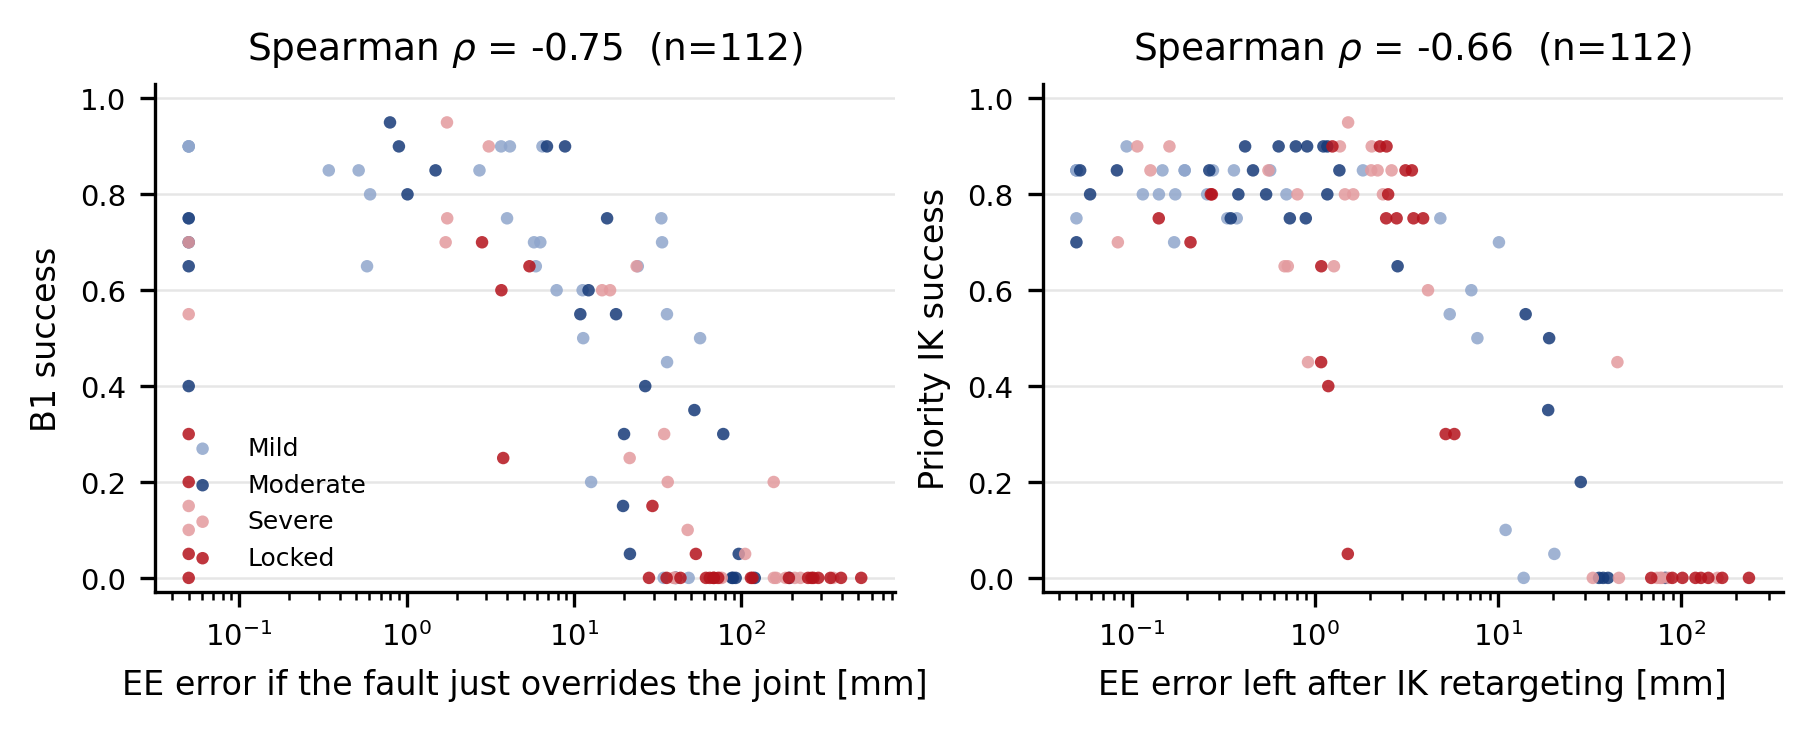
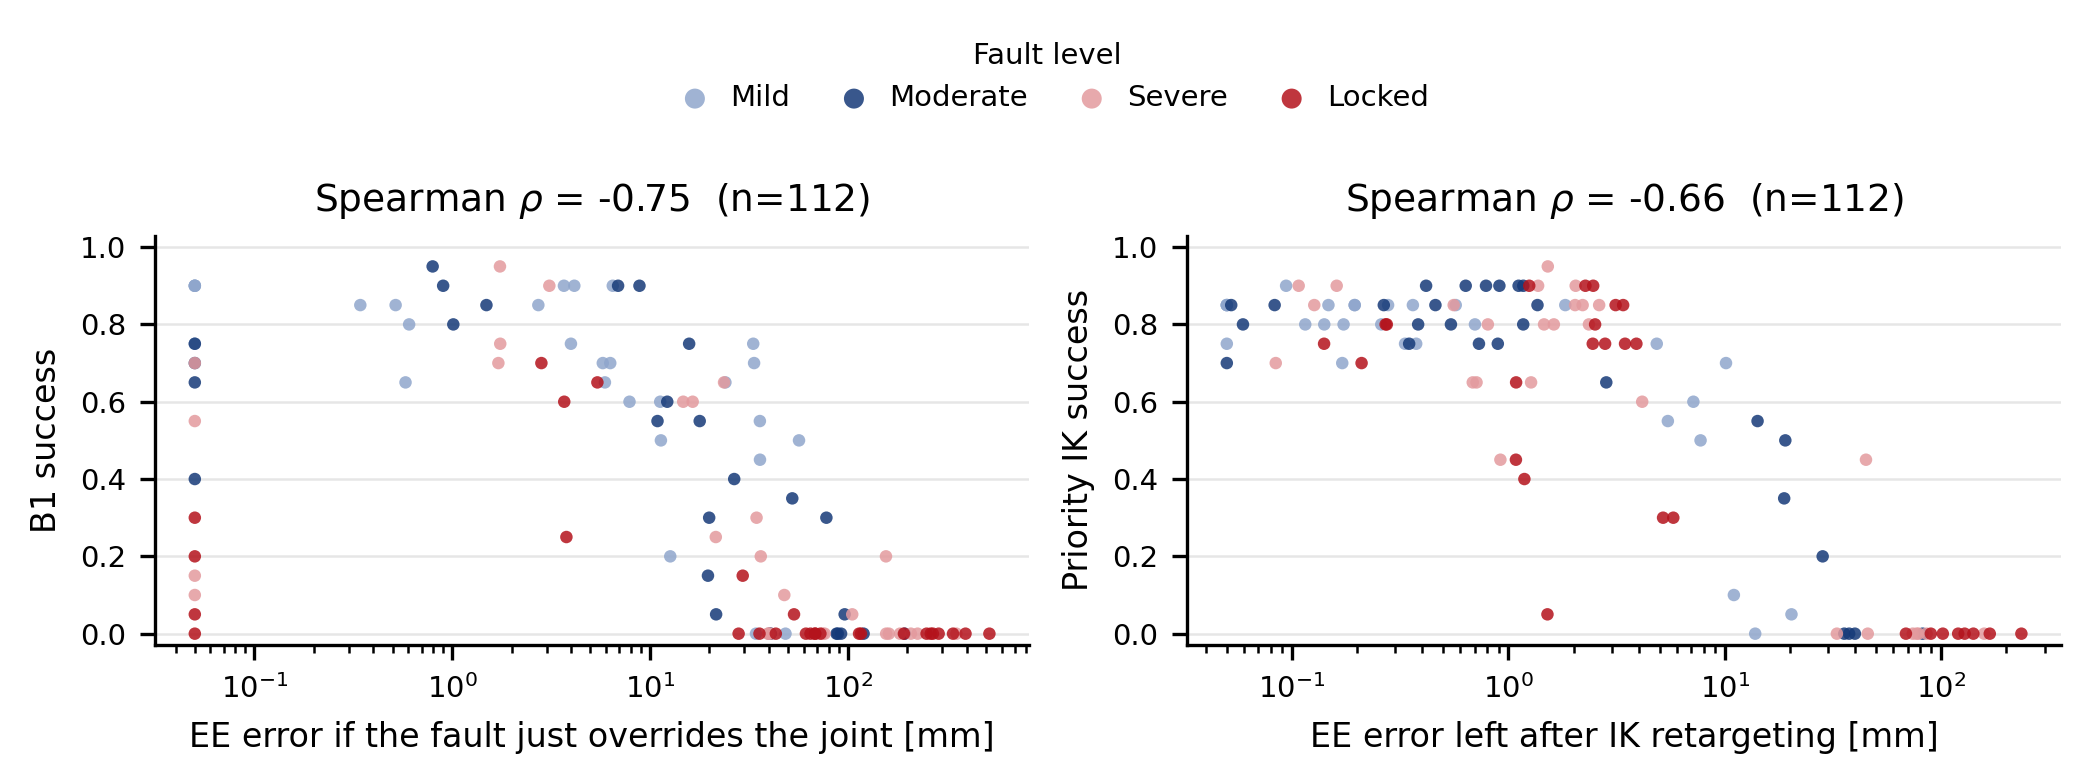
fig_layer1: shared legend above the panels so it no longer covers data points

diff --git a/scripts_paper/make_paper_figures.py b/scripts_paper/make_paper_figures.py
@@ -187,7 +187,10 @@ def layer1(data, path, OUT, report):
         ax.set_xscale("log"); ax.set_xlabel(xl); ax.set_ylabel(yl); ax.set_ylim(-0.03, 1.03)
         ax.set_title(f"Spearman $\\rho$ = {rho:.2f}  (n={len(xs)})")
         ax.yaxis.grid(True, color="#E6E6E6", lw=0.6); ax.set_axisbelow(True)
-    axs[0].legend(frameon=False, fontsize=6, loc="lower left")
+    h, l = axs[0].get_legend_handles_labels()   # one shared legend above the panels, clear of the data
+    fig.legend(h, l, loc="lower center", bbox_to_anchor=(0.5, 1.0), ncol=len(l), frameon=False, fontsize=7,
+               markerscale=1.6, handletextpad=0.2, columnspacing=1.2, title="Fault level", title_fontsize=7)
+    fig.tight_layout()
     savefig(fig, OUT, "fig_layer1"); report.append("fig_layer1")
     write_table(OUT, "tab_layer1", ["Predictor", "Outcome", "n", "Spearman $\\rho$"],
                 [["override EE error", "B1 success", len(x1), f"{rho1:.2f}"],
